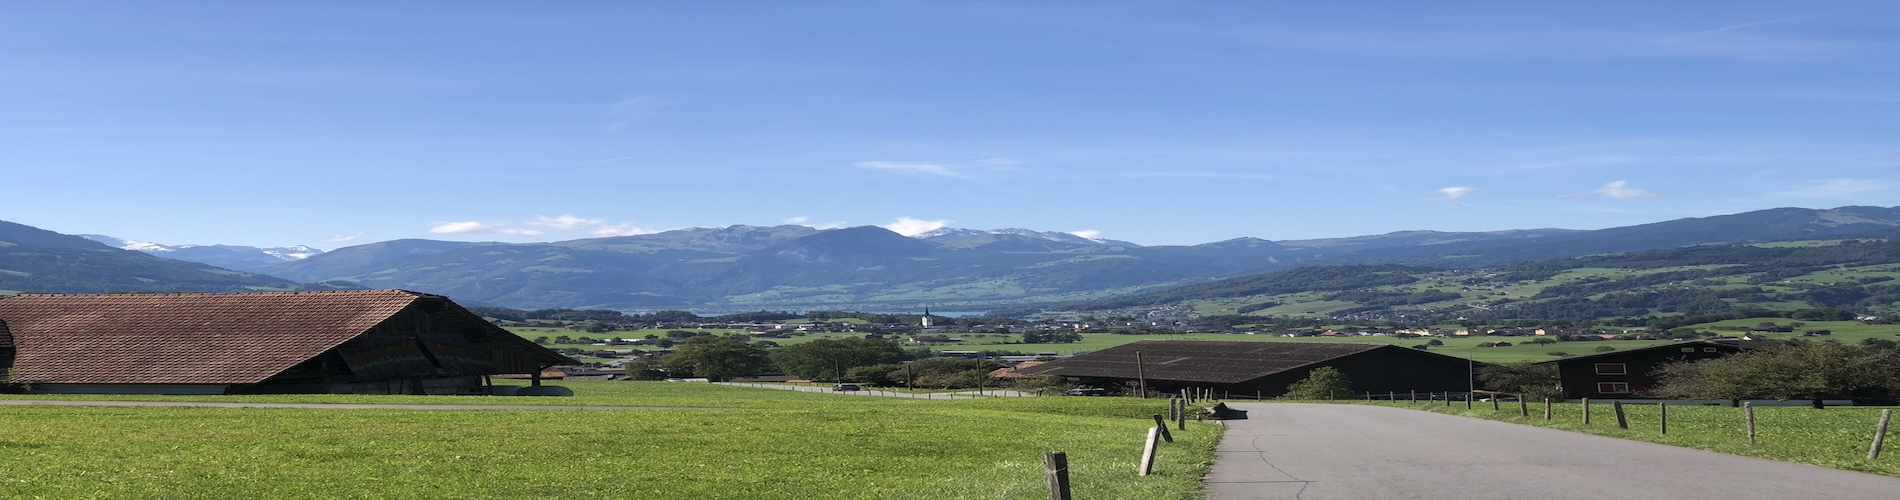
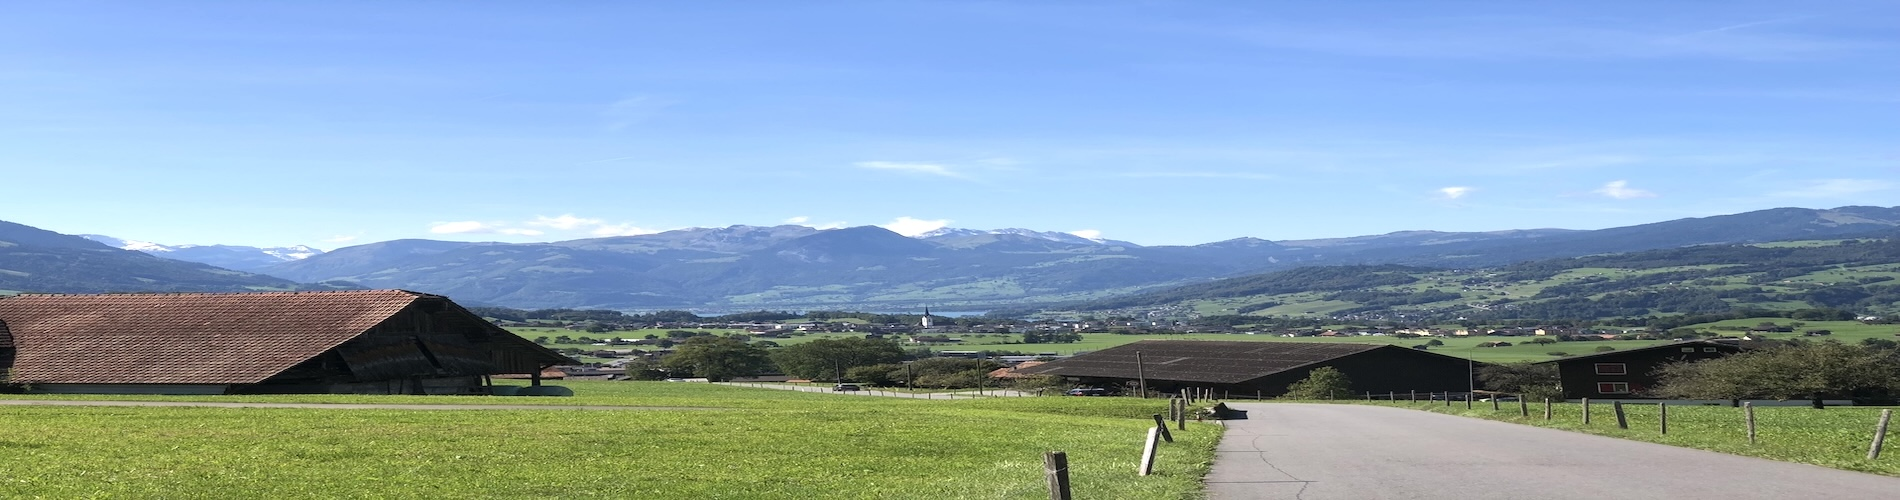
blub

diff --git a/css/style.css b/css/style.css
@@ -37,6 +37,10 @@ legend {
     margin-top: 65px;
 }
 
+.mySlidesTop img {
+  min-height: 200px;
+}
+
 /* Next & previous buttons */
 .prevTop, .nextTop {
   cursor: pointer;
